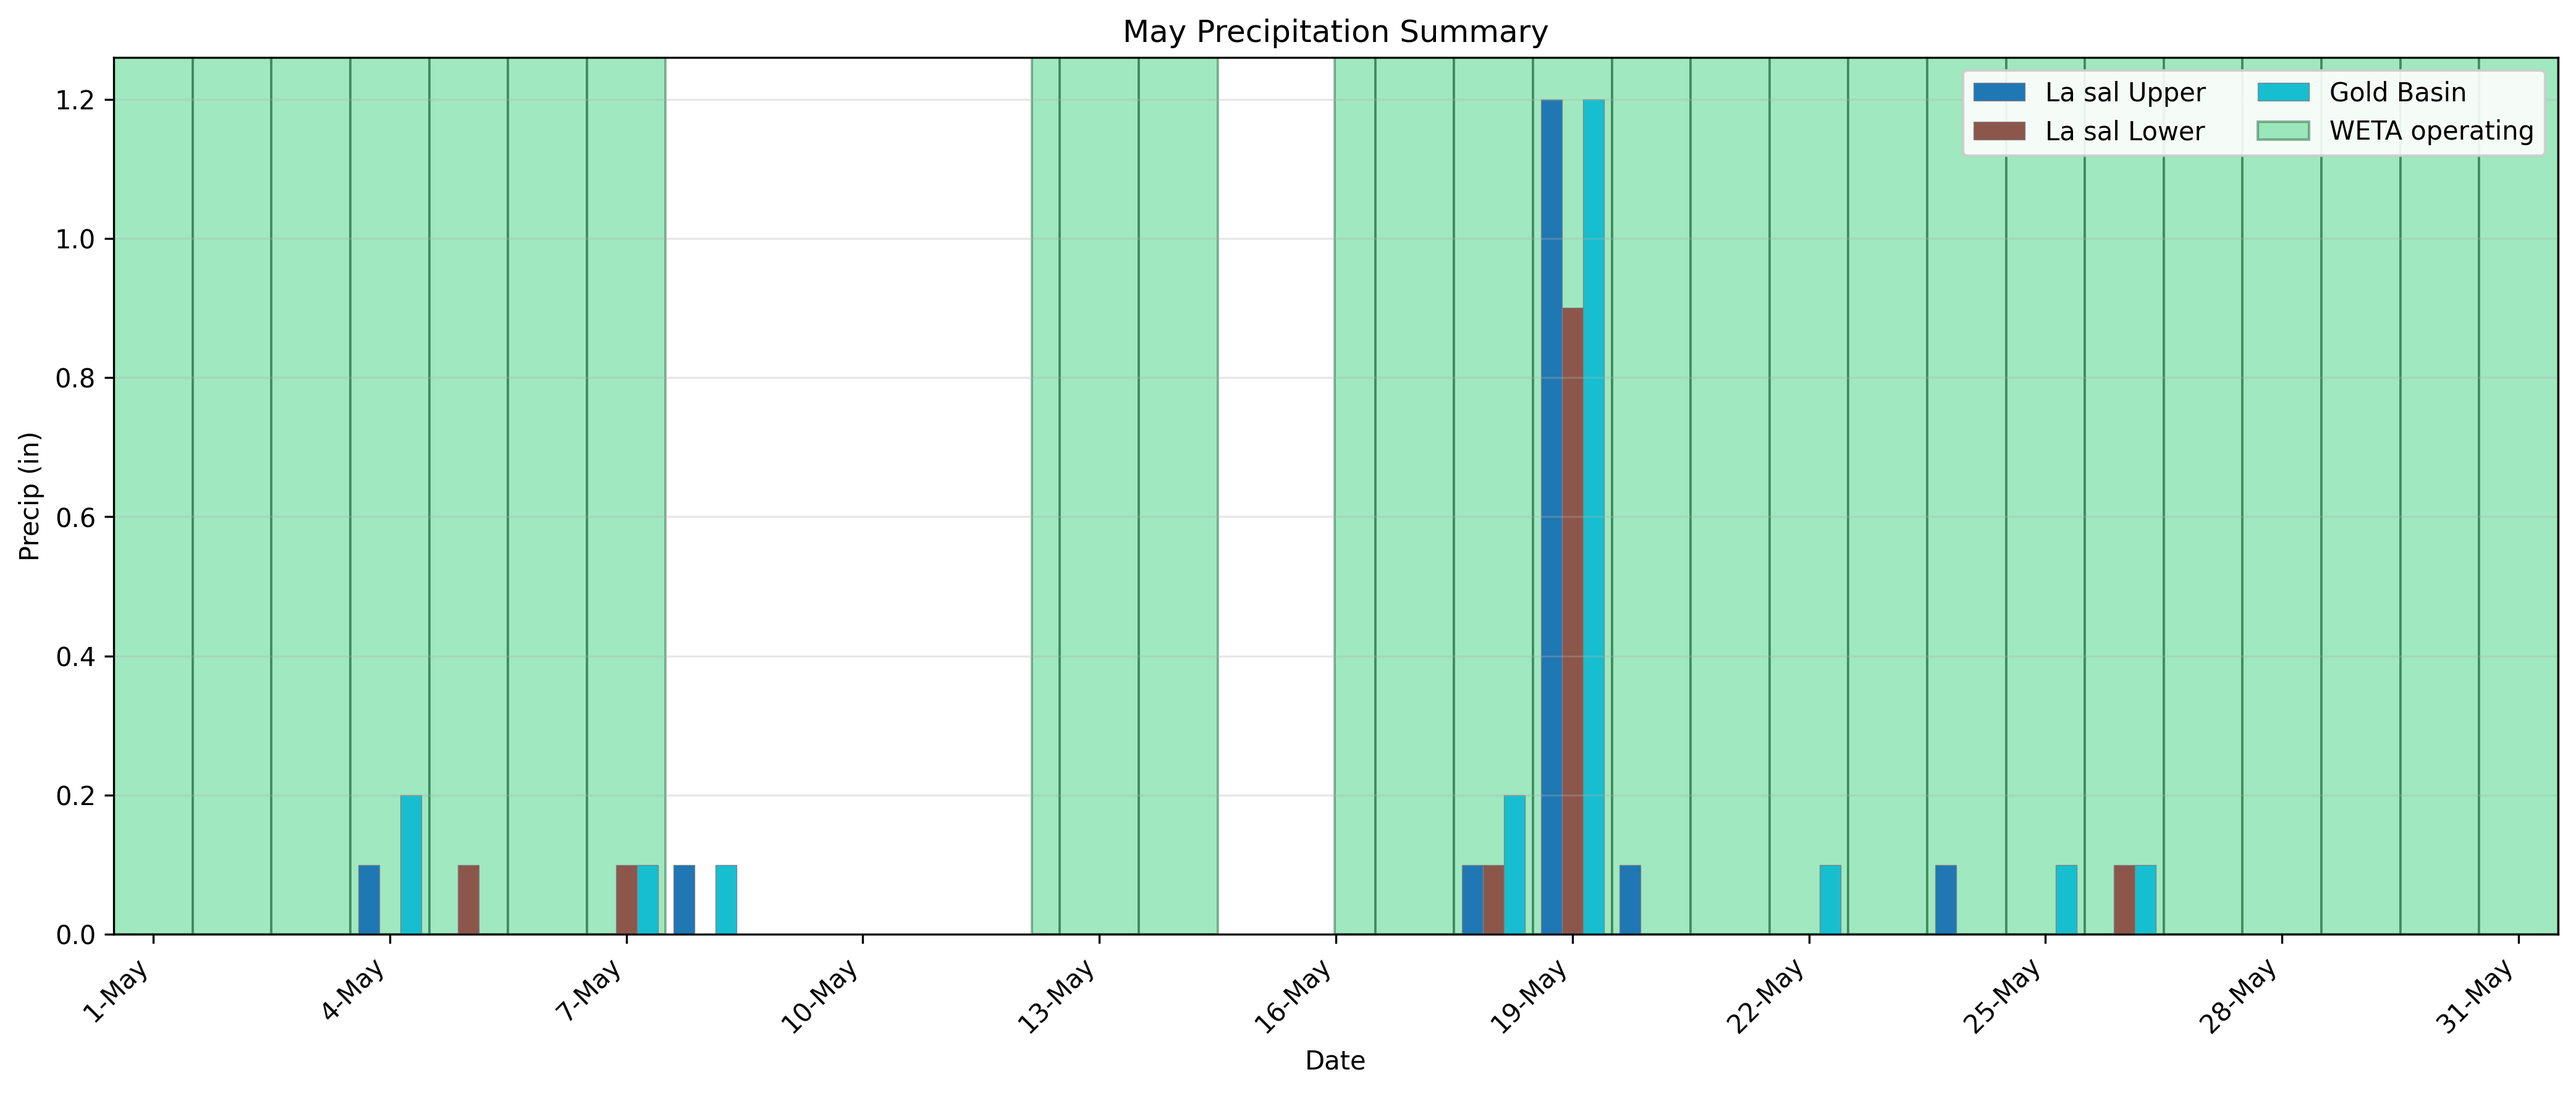
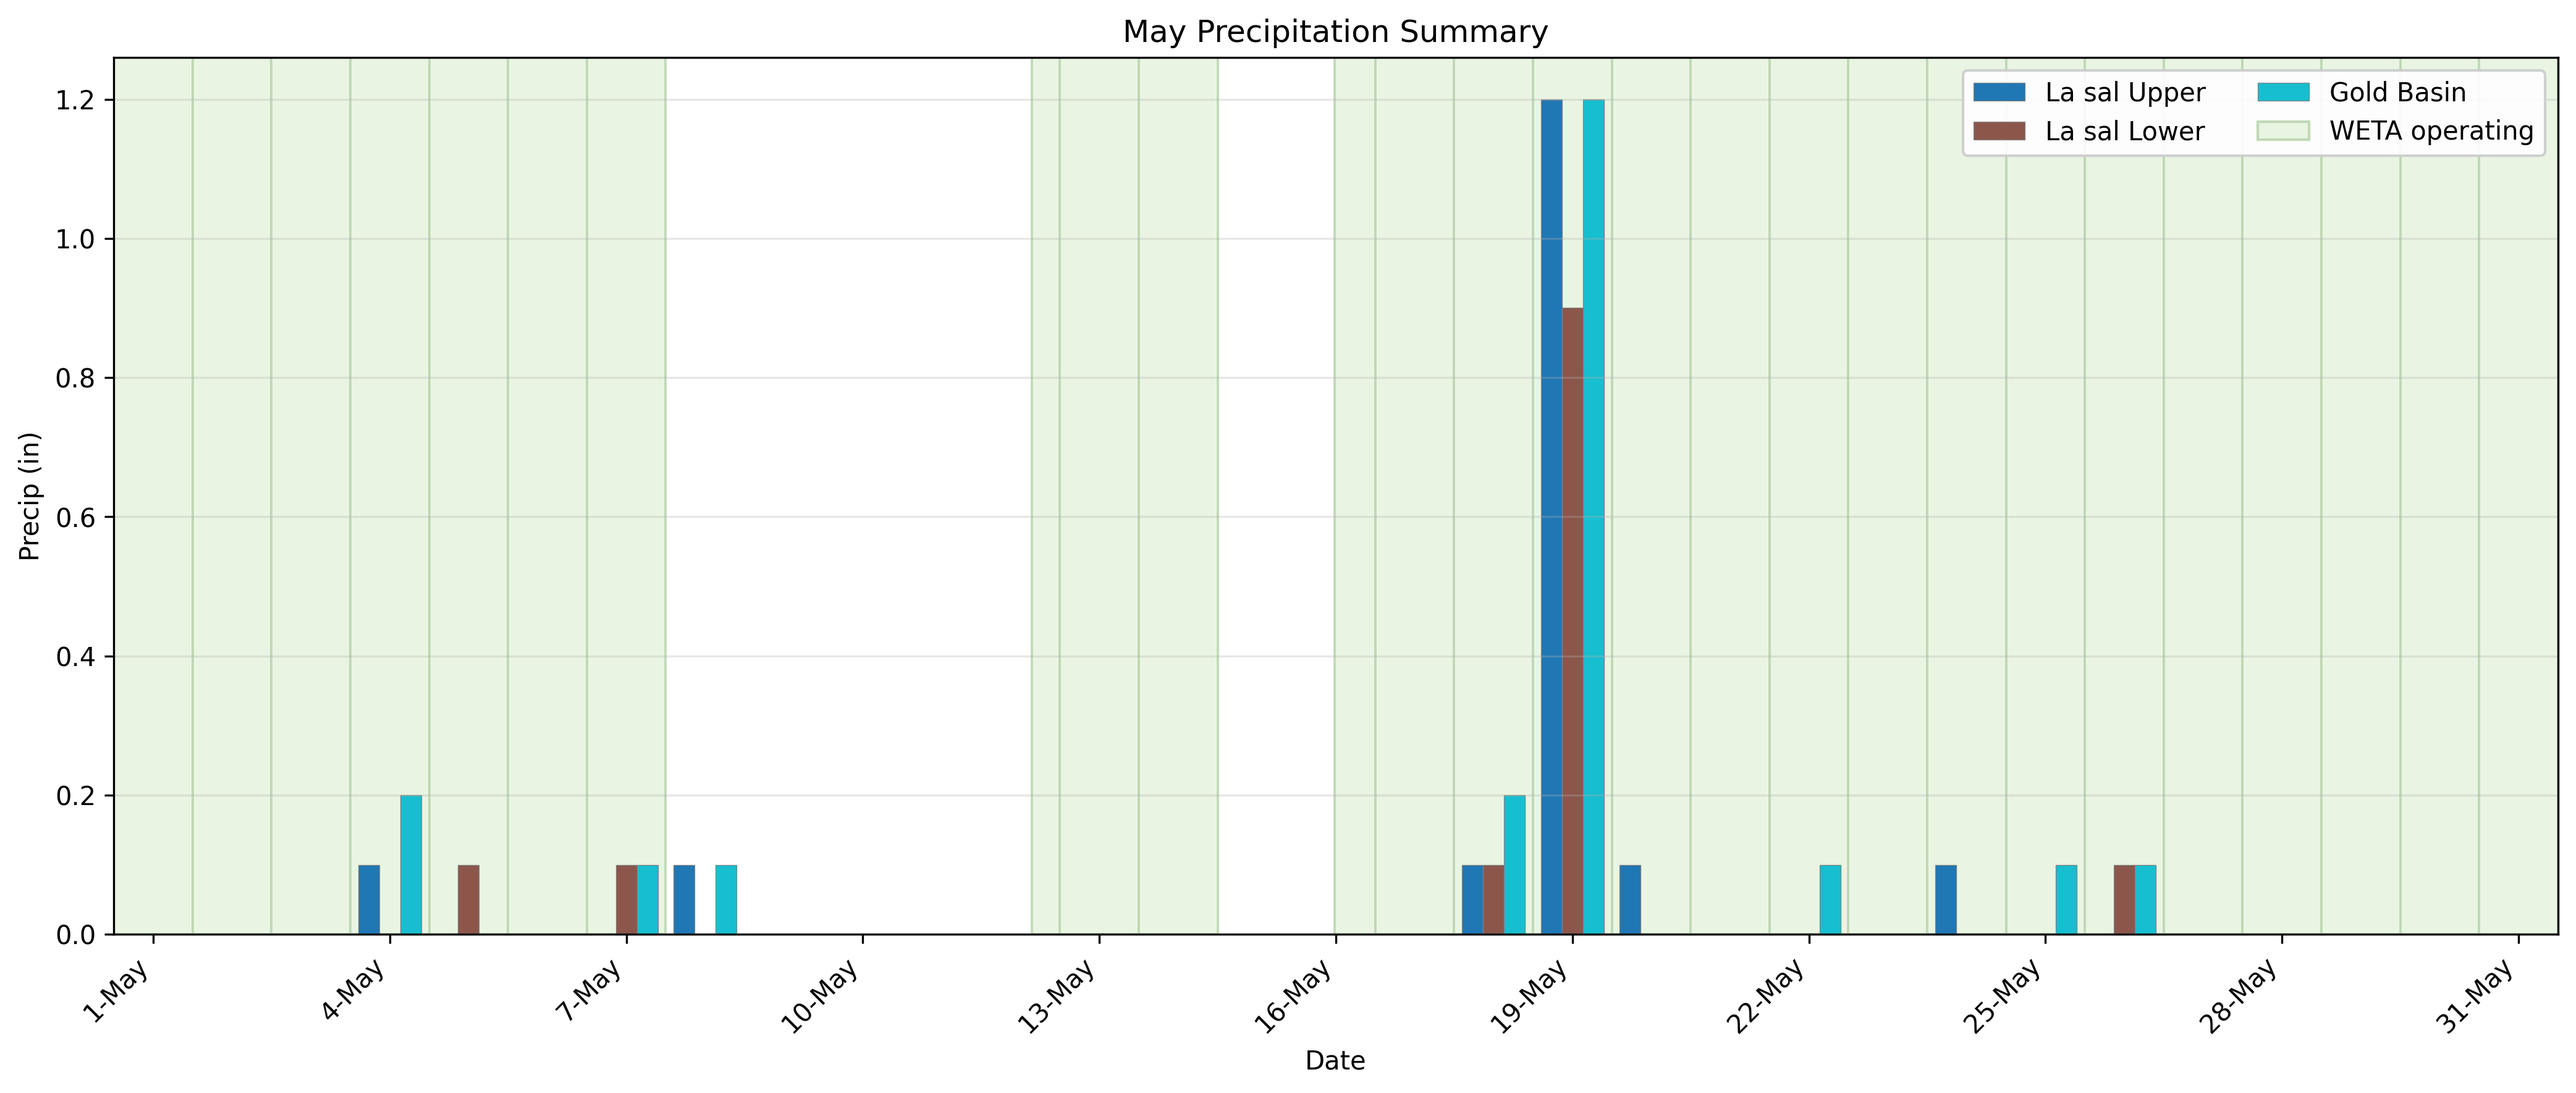
Make operations schedule Figure 1 and align precip plot WETA green with the report.
Wrap the May operations longtable in a figure with sequential numbering, and use the same light green highlight (RGB 232, 245, 225) on the precipitation summary plot.

diff --git a/scripts/plot_generators.py b/scripts/plot_generators.py
@@ -16,7 +16,8 @@ from pathlib import Path
 sys.path.insert(0, str(Path(__file__).parent))
 from config import (
     CSV_DIR, PLOTS_DIR, TREATMENT_STATIONS, CONTROL_STATIONS,
-    WATER_YEAR_START_MONTH, WATER_YEAR_START_DAY, PLOT_DPI, PLOT_FORMAT
+    WATER_YEAR_START_MONTH, WATER_YEAR_START_DAY, PLOT_DPI, PLOT_FORMAT,
+    WETA_OPERATING_RGB, WETA_OPERATING_EDGE_RGB,
 )
 
 # Display labels for boxplot panel titles (camel casing for report)
@@ -118,9 +119,9 @@ def plot_operations_schedule(operations_df, month, year, output_file=None):
             ax.axvspan(
                 date - timedelta(hours=12),
                 date + timedelta(hours=12),
-                color="#2ecc71",
-                alpha=0.45,
-                edgecolor="#145a32",
+                facecolor=WETA_OPERATING_RGB,
+                edgecolor=WETA_OPERATING_EDGE_RGB,
+                alpha=0.95,
                 linewidth=0.6,
                 zorder=0,
             )
@@ -237,9 +238,9 @@ def plot_precipitation_summary(stations_data, operations_df, month, year, output
                     x0, x1 = span
                     ax.axvspan(
                         x0, x1,
-                        facecolor='#2ecc71',
-                        alpha=0.45,
-                        edgecolor='#145a32',
+                        facecolor=WETA_OPERATING_RGB,
+                        edgecolor=WETA_OPERATING_EDGE_RGB,
+                        alpha=0.95,
                         linewidth=0.9,
                         zorder=0,
                     )
@@ -293,7 +294,12 @@ def plot_precipitation_summary(stations_data, operations_df, month, year, output
     handles, labels = ax.get_legend_handles_labels()
     if weta_highlighted:
         handles.append(
-            Patch(facecolor="#2ecc71", edgecolor="#145a32", alpha=0.45, label="WETA operating")
+            Patch(
+                facecolor=WETA_OPERATING_RGB,
+                edgecolor=WETA_OPERATING_EDGE_RGB,
+                alpha=0.95,
+                label="WETA operating",
+            )
         )
         labels.append("WETA operating")
     ax.legend(handles, labels, loc="upper right", ncol=2, framealpha=0.9)

diff --git a/main.tex b/main.tex
@@ -204,10 +204,15 @@ in year-round operations (snow and rainfall) over the La Sal Mountain Ranges. Th
 % =========================
 \section{Operations Summary}
 
-Table \ref{tab:operations_schedule} details the operating schedule during the reporting period. Green highlighting indicates periods when WETA was operational.
+Figure \ref{fig:operations_schedule} details the operating schedule during the reporting period. Green highlighting indicates periods when WETA was operational.
 WETA was operated during periods when forecasts indicated any chance of precipitation over the target area, including marginal cases involving scattered light snow showers.
 
-\input{operations_table.tex}
+\begin{figure}[h!]
+  \centering
+  \input{operations_table.tex}
+  \caption{WETA operating schedule during May 2026. Green highlighting indicates periods of operation.}
+  \label{fig:operations_schedule}
+\end{figure}
 
 Resolution of prior power issues has enabled longer periods of continuous operation. WETA was operating for the majority of hours during the month of May 2026, including during periods that were dry or when there was only a marginal chance of precipitation.
 

diff --git a/scripts/config.py b/scripts/config.py
@@ -71,5 +71,9 @@ WATER_YEAR_START_DAY = 1
 PLOT_DPI = 300
 PLOT_FORMAT = "png"
 
+# WETA operating highlight — matches LaTeX greenhighlight (RGB 232, 245, 225)
+WETA_OPERATING_RGB = (232 / 255, 245 / 255, 225 / 255)
+WETA_OPERATING_EDGE_RGB = (190 / 255, 215 / 255, 180 / 255)
+
 # Report settings
 REPORT_TITLE_PREFIX = "La Sal Operations Report"

diff --git a/scripts/parse_operations_table.py b/scripts/parse_operations_table.py
@@ -544,7 +544,6 @@ def generate_operations_table_latex(df, month, year):
         latex_lines.append(f"{date_col} & {status_col} \\\\")
         latex_lines.append("\\hline")
     
-    latex_lines.append("\\label{tab:operations_schedule}")
     latex_lines.append("\\end{longtable}")
 
     return "\n".join(latex_lines)

diff --git a/operations_table.tex b/operations_table.tex
@@ -34,5 +34,4 @@
 \rowcolor{greenhighlight}
 05/17/2026 -- 05/31/2026 & on \\
 \hline
-\label{tab:operations_schedule}
 \end{longtable}
